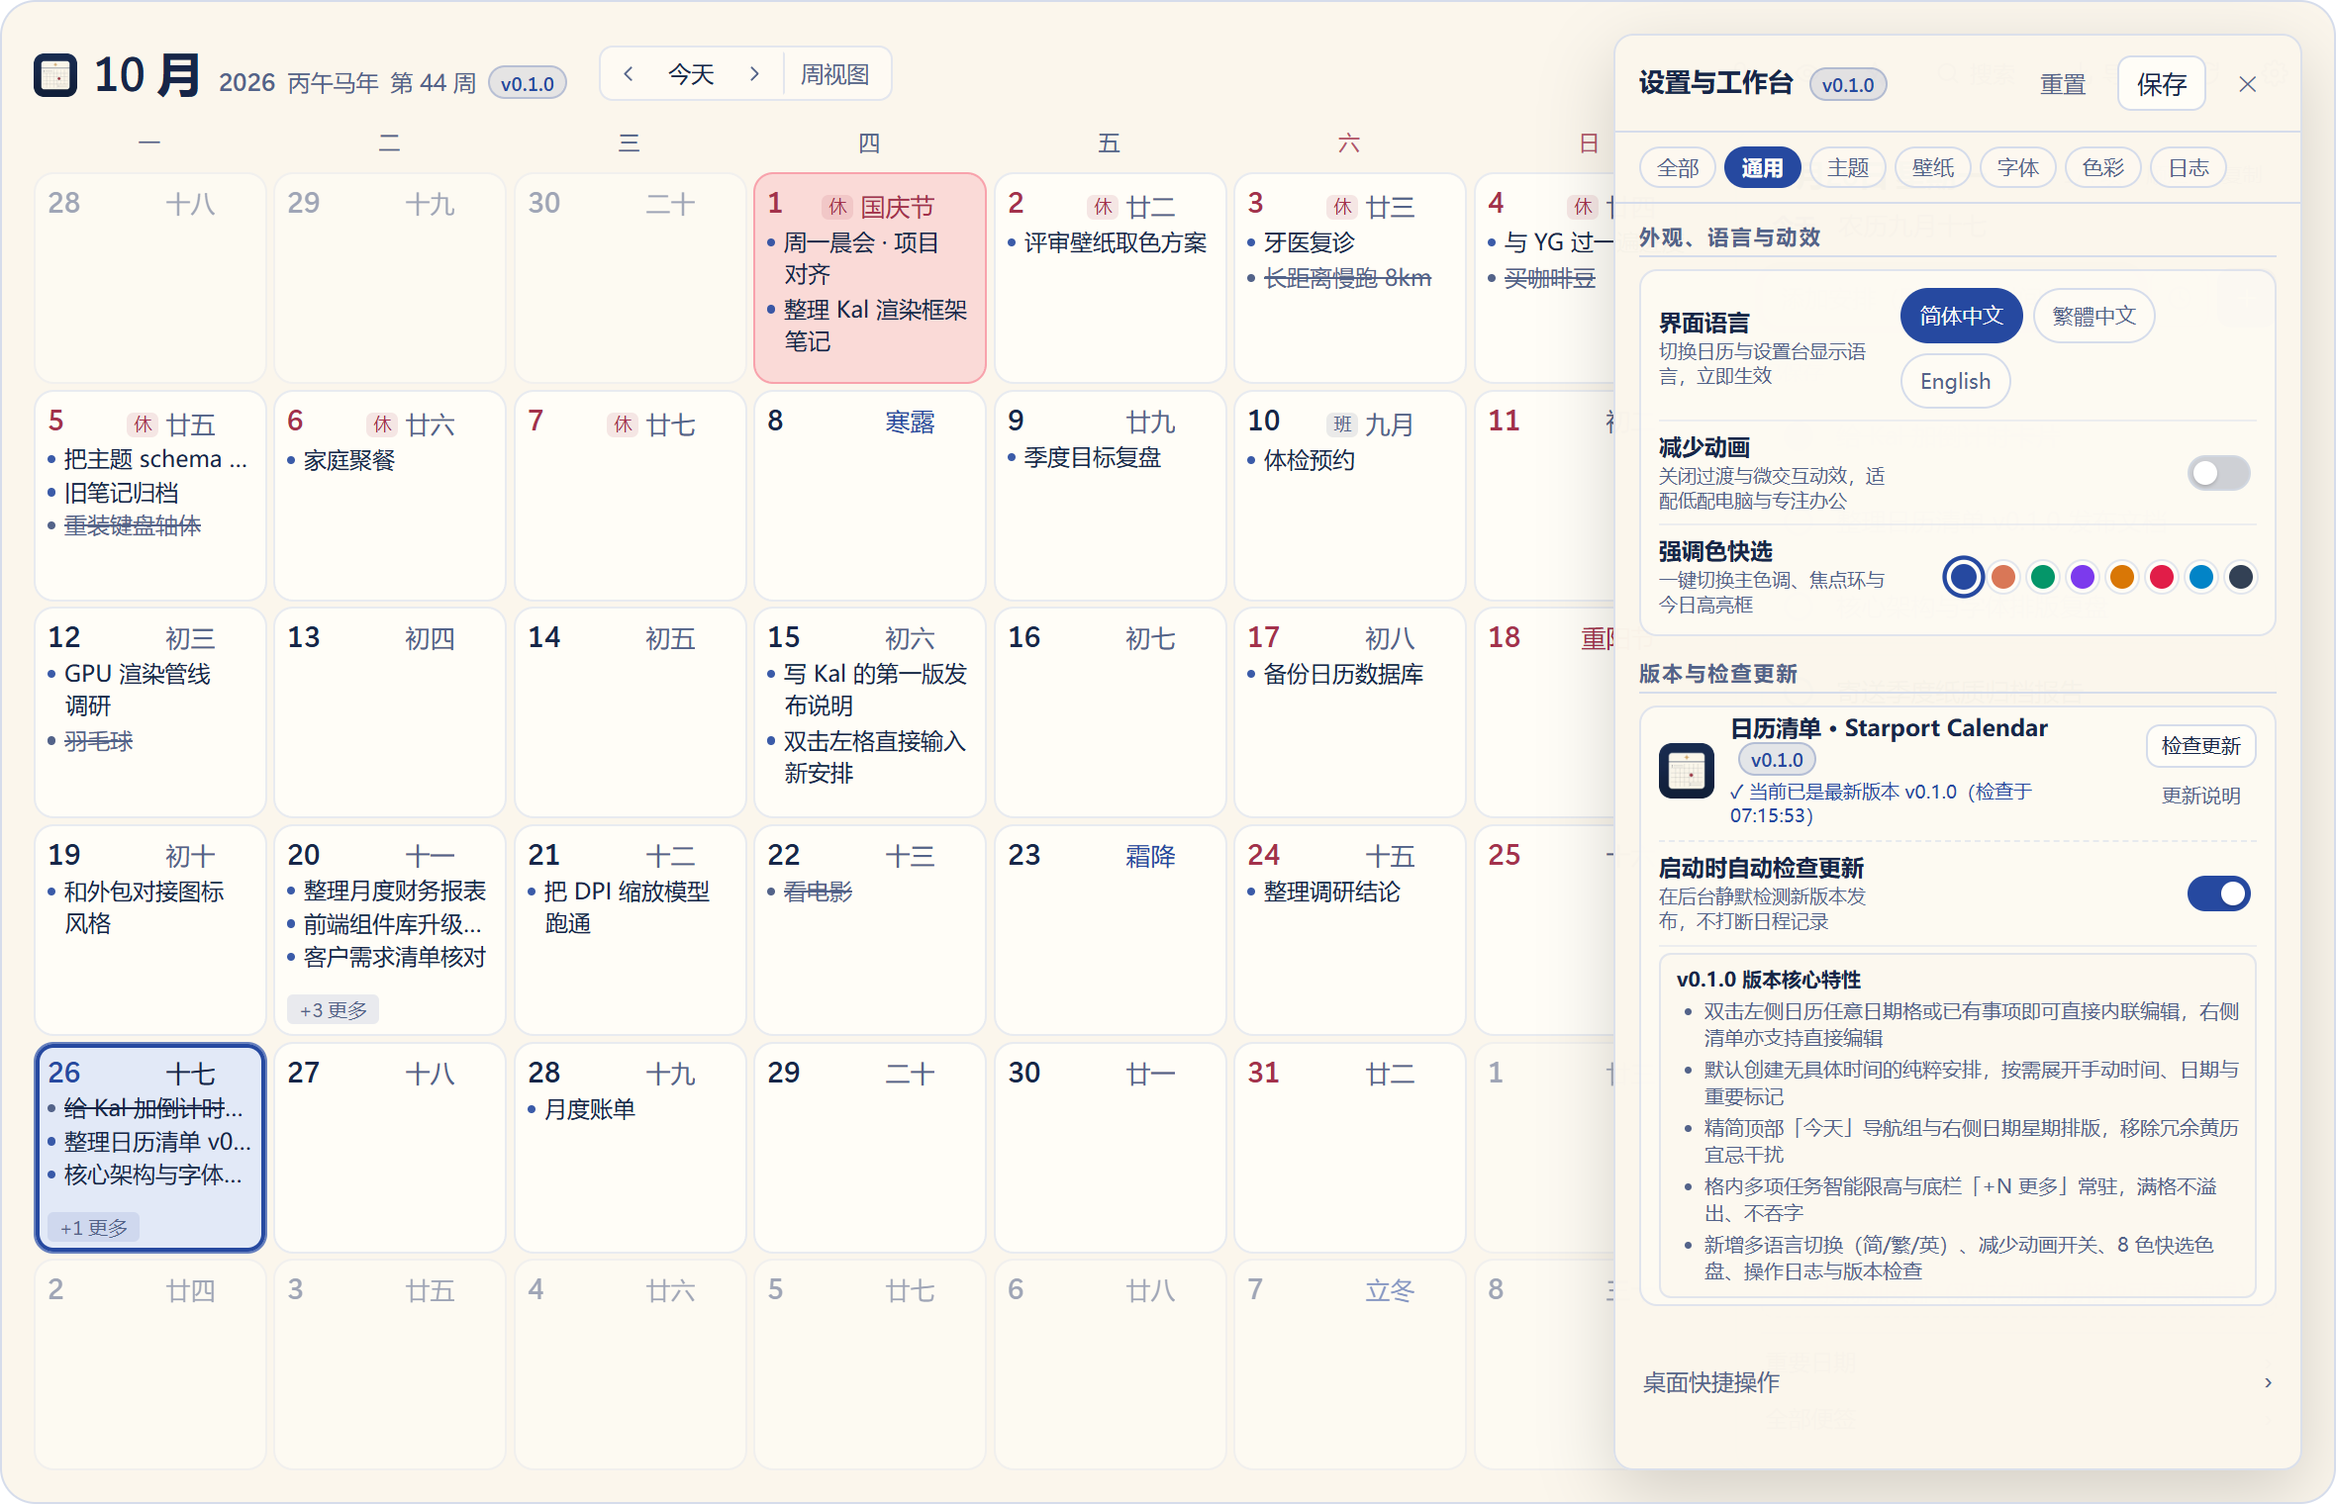
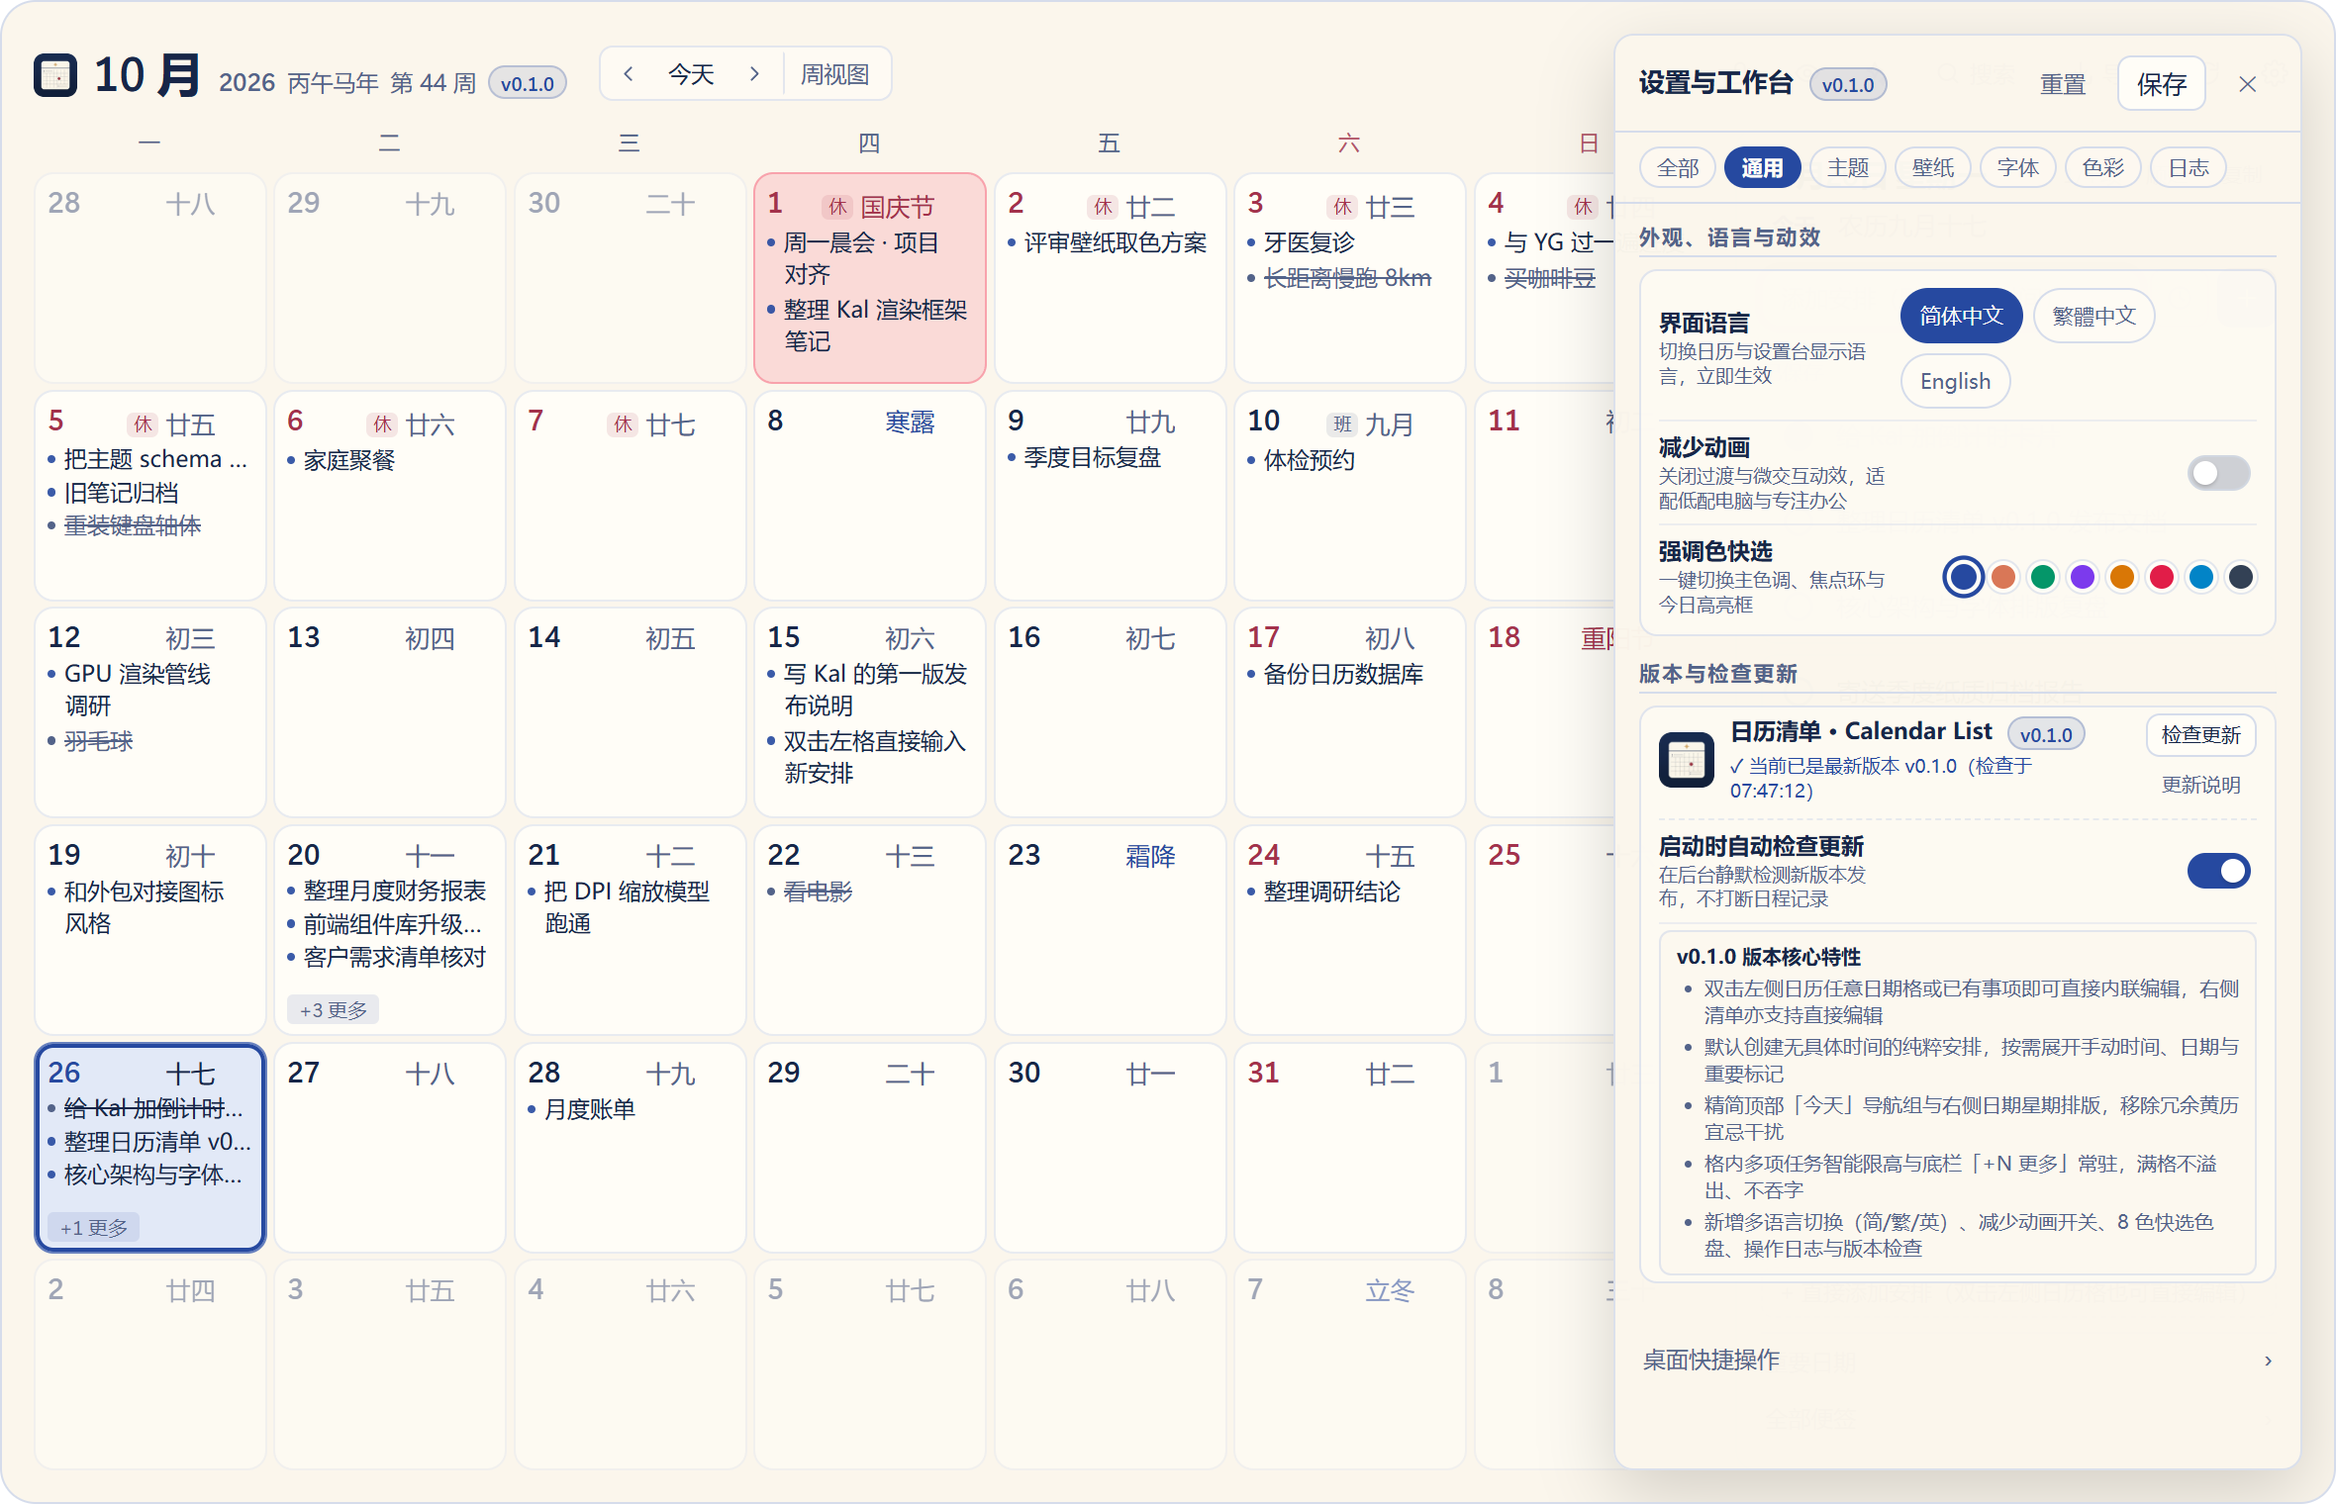
chore: unify project and product English name to Calendar List (日历清单) v0.1.0

Changed region(s): [[0.7114, 0.4638, 0.9589, 0.8658], [0.928, 0.4638, 0.9589, 0.6184], [0.6805, 0.8967, 0.7733, 0.9276]]

diff --git a/ui/src/panel.js b/ui/src/panel.js
@@ -293,10 +293,10 @@ export function createPanel({ mount, getTheme, onPreview, onCommit, onRegen, onR
     <div class="kal-sec-title">版本与检查更新</div>
     <div class="kal-card-group kal-update-card">
       <div class="kal-update-hero">
-        <img class="kal-update-logo" src="./favicon.png" alt="Starport Calendar" width="28" height="28" />
+        <img class="kal-update-logo" src="./favicon.png" alt="Calendar List" width="28" height="28" />
         <div class="kal-update-meta">
-          <div class="kal-update-name">日历清单 · Starport Calendar <span class="kal-update-ver-pill" id="kal-update-ver-pill">${APP_STAGE_LABEL}</span></div>
-          <div class="kal-update-sub" id="kal-update-status">当前阶段版本：${APP_STAGE_LABEL} (Build 2026.10 · 星港素纸版)</div>
+          <div class="kal-update-name">日历清单 · Calendar List <span class="kal-update-ver-pill" id="kal-update-ver-pill">${APP_STAGE_LABEL}</span></div>
+          <div class="kal-update-sub" id="kal-update-status">当前阶段版本：${APP_STAGE_LABEL} (Build 2026.10)</div>
         </div>
         <div class="kal-update-actions">
           <button type="button" class="kal-btn kal-update-btn" id="kal-check-update-btn">检查更新</button>

diff --git a/ui/index.html b/ui/index.html
@@ -3,7 +3,7 @@
 <head>
   <meta charset="utf-8" />
   <meta name="viewport" content="width=device-width,initial-scale=1" />
-  <title>日历清单 · Starport Calendar</title>
+  <title>日历清单 · Calendar List</title>
   <link rel="icon" type="image/png" href="./favicon.png" />
   <link rel="stylesheet" href="./styles/tokens.css" />
   <link rel="stylesheet" href="./styles/layout.css" />
@@ -25,7 +25,7 @@
         <span id="kal-year-label" class="kal-year-label"></span>
         <span id="kal-lunar-year" class="kal-lunar-year"></span>
         <span id="kal-week-badge" class="kal-week-badge" title="当前选中日期所在周次"></span>
-        <span id="kal-app-version" class="kal-version-pill" title="日历清单 · Starport Calendar v0.1.0">v0.1.0</span>
+        <span id="kal-app-version" class="kal-version-pill" title="日历清单 · Calendar List v0.1.0">v0.1.0</span>
       </div>
     </div>
     <nav class="kal-nav">

diff --git a/src-tauri/src/lib.rs b/src-tauri/src/lib.rs
@@ -646,7 +646,7 @@ fn build_tray(app: &tauri::AppHandle) -> tauri::Result<()> {
     let menu = Menu::with_items(app, &[&toggle, &settings, &regen, &sep, &click_through_off, &show_all, &quit])?;
 
     let mut b = TrayIconBuilder::with_id("kal-tray")
-        .tooltip("日历清单 · Starport Calendar")
+        .tooltip("日历清单 · Calendar List")
         .menu(&menu)
         .show_menu_on_left_click(true)
         .on_menu_event(|app, ev| match ev.id().as_ref() {

diff --git a/README.md b/README.md
@@ -1,34 +1,34 @@
 <div align="center">
 
-<img src="docs/screenshots/v0.1.0/logo.png" alt="Starport Calendar Logo" width="108" height="108" />
+<img src="docs/screenshots/v0.1.0/logo.png" alt="Calendar List Logo" width="108" height="108" />
 
-# 日历清单 · Starport Calendar
+# 日历清单 · Calendar List
 
 **轻量、温润、高颜值的 Windows 嵌入式桌面日历与待办清单**  
-*A Lightweight, Customizable Desktop Calendar & Todo Agenda for Windows — Powered by Rust + Tauri v2*
+*A Lightweight, Customizable Desktop Calendar & Todo List for Windows — Powered by Rust + Tauri v2*
 
-[![Release v0.1.0](https://img.shields.io/badge/release-v0.1.0-1e40af?style=flat-square)](https://github.com/yq04/Starport-Calendar/releases/tag/v0.1.0)
-[![Platform](https://img.shields.io/badge/platform-Windows%2010%2F11%20x64-0078d4?style=flat-square)](https://github.com/yq04/Starport-Calendar/releases)
+[![Release v0.1.0](https://img.shields.io/badge/release-v0.1.0-1e40af?style=flat-square)](https://github.com/yq04/Calendar-List/releases/tag/v0.1.0)
+[![Platform](https://img.shields.io/badge/platform-Windows%2010%2F11%20x64-0078d4?style=flat-square)](https://github.com/yq04/Calendar-List/releases)
 [![Tech Stack](https://img.shields.io/badge/stack-Rust%20%2B%20Tauri%20v2-dea584?style=flat-square)](src-tauri/Cargo.toml)
 [![Frontend](https://img.shields.io/badge/frontend-Zero--Bundle%20ESM-10b981?style=flat-square)](ui/src/main.js)
 [![License: MIT](https://img.shields.io/badge/license-MIT-64748b?style=flat-square)](LICENSE)
 
-[**⬇ 下载 Windows x64 安装包 (v0.1.0 · 2.23 MB)**](https://github.com/yq04/Starport-Calendar/releases/download/v0.1.0/StarportCalendar_0.1.0_x64-setup.exe) · [**📋 v0.1.0 发行说明**](docs/RELEASE_NOTES_0.1.0.md) · [**🎨 主题与色板说明**](docs/theme-presets.md) · [**⚡ 性能基线报告**](docs/performance-baseline.md)
+[**⬇ 下载 Windows x64 安装包 (v0.1.0 · 2.23 MB)**](https://github.com/yq04/Calendar-List/releases/download/v0.1.0/CalendarList_0.1.0_x64-setup.exe) · [**📋 v0.1.0 发行说明**](docs/RELEASE_NOTES_0.1.0.md) · [**🎨 主题与色板说明**](docs/theme-presets.md) · [**⚡ 性能基线报告**](docs/performance-baseline.md)
 
 </div>
 
 ---
 
-## ✨ 为什么选择「日历清单 · Starport Calendar」？
+## ✨ 为什么选择「日历清单 · Calendar List」？
 
 传统桌面日历（如 DesktopCal）拥有实用的月历格子记事模型，但其早期的 GDI 自绘渲染层难以兼顾现代高分屏字体排版、色彩可读性与轻快交互；而重型全功能日历客户端又往往充斥着繁琐的表单、精确到分钟的强制时间段和沉重的后台开销。
 
-**日历清单 · Starport Calendar** 用 **Rust + Tauri v2 + 零打包器原生 ES Module** 重新打造了一款回归纯粹的桌面日历清单：
+**日历清单 · Calendar List** 用 **Rust + Tauri v2 + 零打包器原生 ES Module** 重新打造了一款回归纯粹的桌面日历清单：
 
 - 🪶 **极致轻量，低配友好**：安装包仅 **2.23 MB**，无 Node.js 运行时与前端框架臃肿包体；内置「减少动画」与「温润实底」模式，核显与老旧办公本也能丝滑常驻桌面。
 - ✍ **左右双侧直接编辑，默认不设时间负担**：既能在**左侧 42 格日历任意格子双击直接打字**，也能在**右侧每日清单原位新建或双击修改**；日常安排默认不要求填写具体时刻，需要时再一键展开手动时间。
 - 📐 **满格不溢出、不吞字**：智能识别单格事项密度，满格自动启用紧凑单行截断并将 **`+N 更多`** 独立固定于格子底栏，点击即可弹出当日完整清单。
-- 🎨 **星港素纸美学 + OKLab 壁纸取色引擎**：内置 **星港素纸、深海夜航、摩卡紫蓝、极地霜夜、松影晨纸** 5 套主题与 8 色快选圆点，支持按桌面壁纸自动生成符合 WCAG AA/AAA 对比度的专属配色。
+- 🎨 **护眼素纸美学 + OKLab 壁纸取色引擎**：内置 **星港素纸、深海夜航、摩卡紫蓝、极地霜夜、松影晨纸** 5 套主题与 8 色快选圆点，支持按桌面壁纸自动生成符合 WCAG AA/AAA 对比度的专属配色。
 - 🗓 **本土化日历细节拉满**：内置 1900–2100 农历、二十四节气、法定节假日「休/班」角标、周视图 7 列专注看板、跨日拖拽改期、未完事项一键顺延，以及 **A4 横向满幅 PDF / Markdown / iCalendar (`.ics`)** 导入导出。
 
 ---
@@ -37,13 +37,13 @@
 
 > 以下截图均来自 `v0.1.0` 实际前端与隔离演示数据，不包含任何个人隐私数据。
 
-### 1. 主界面总览（星港素纸主题 · 清晰日期星期 · 满格 `+N 更多` 常驻）
+### 1. 主界面总览（护眼暖白主题 · 清晰日期星期 · 满格 `+N 更多` 常驻）
 顶部紧凑 `[ ‹ 今天 › | 周视图 ]` 导航胶囊，左侧 42 格等高矩阵清晰呈现公历、农历、节气与法定休/班角标；右侧聚焦当日 **日期 + 星期** 与待办清单，彻底告别杂乱黄历干扰。
 
-![主界面总览：星港素纸主题、满格 +3 更多常驻与右侧清爽日程栏](docs/screenshots/v0.1.0/01-main-overview.png)
+![主界面总览：满格 +3 更多常驻与右侧清爽日程栏](docs/screenshots/v0.1.0/01-main-overview.png)
 
 ### 2. 左右双侧直接编辑（左侧日历格双击直编 + 右侧列表原位直编）
-无论是習慣在**左侧日历格子上直接双击记录**（或点击格子右上角悬停 `+` 号），还是习惯在**右侧面板顶部/底部直接输入**，都能一键回车即存；双击任意已有事项即可原位修改文字。
+无论是习惯在**左侧日历格子上直接双击记录**（或点击格子右上角悬停 `+` 号），还是习惯在**右侧面板顶部/底部直接输入**，都能一键回车即存；双击任意已有事项即可原位修改文字。
 
 | 左侧日历格双击原位输入 | 右侧清单底部 `+ 直接添加安排` 原位编辑 |
 | :---: | :---: |
@@ -86,12 +86,16 @@
 
 ## 📦 下载与安装
 
-前往 [**GitHub Releases (`v0.1.0`)**](https://github.com/yq04/Starport-Calendar/releases/tag/v0.1.0) 下载最新 Windows x64 安装包：
+前往 [**GitHub Releases (`v0.1.0`)**](https://github.com/yq04/Calendar-List/releases/tag/v0.1.0) 下载最新 Windows x64 安装包：
 
-- **安装包文件**：[`StarportCalendar_0.1.0_x64-setup.exe`](https://github.com/yq04/Starport-Calendar/releases/download/v0.1.0/StarportCalendar_0.1.0_x64-setup.exe)
-- **安装包大小**：`2,341,144` 字节（约 `2.23 MB`）
[1 lines of base64/hex data omitted]
+- **安装包文件**：[`CalendarList_0.1.0_x64-setup.exe`](https://github.com/yq04/Calendar-List/releases/download/v0.1.0/CalendarList_0.1.0_x64-setup.exe)
+- **安装包大小**：`2,342,572` 字节（约 `2.23 MB`）
[1 lines of base64/hex data omitted]
 - **系统要求**：Windows 10 / Windows 11 (x64)，内置 WebView2 Runtime（Windows 11 及现代 Windows 10 已默认自带）。
+- **自定义安装路径**：双击向导可直接安装，或通过命令行指定目录（例如安装至 `D:\1_app\CalendarList`）：
+  ```powershell
+  Start-Process -FilePath .\CalendarList_0.1.0_x64-setup.exe -ArgumentList "/S /D=D:\1_app\CalendarList" -Wait
+  ```
 
 ---
 
@@ -106,7 +110,7 @@
 | **色彩科学** | `image` + 自研 OKLab k-means | 在感知均匀的 OKLab 空间聚类取色，二分求解满足 WCAG AA/AAA 对比度的文字色彩 |
 
 ```text
-Starport-Calendar/
+Calendar-List/
 ├── src-tauri/                 # Rust + Tauri v2 原生后端
 │   ├── src/
 │   │   ├── color.rs           # sRGB <-> OKLab 转换、WCAG 对比度计算与二分校正
@@ -145,13 +149,13 @@ Starport-Calendar/
 
 ```powershell
 # 克隆仓库
-git clone https://github.com/yq04/Starport-Calendar.git
-cd Starport-Calendar
+git clone https://github.com/yq04/Calendar-List.git
+cd Calendar-List
 
 # 开发模式启动
 cargo run --manifest-path src-tauri/Cargo.toml
 
-# 构建 Windows x64 NSIS 安装程序 (StarportCalendar_0.1.0_x64-setup.exe)
+# 构建 Windows x64 NSIS 安装程序 (CalendarList_0.1.0_x64-setup.exe)
 cd src-tauri
 cargo tauri build --bundles nsis
 ```

diff --git a/docs/RELEASE_NOTES_0.1.0.md b/docs/RELEASE_NOTES_0.1.0.md
@@ -1,4 +1,4 @@
-# 日历清单 · Starport Calendar `v0.1.0` 发行说明
+# 日历清单 · Calendar List `v0.1.0` 发行说明
 
 **发布日期**：2026-10-26  
 **版本标签**：`v0.1.0`（首次公开正式候选版）  
@@ -18,7 +18,7 @@
    - 点击 `+N 更多` 即可弹出该日全量事项悬浮卡片，同时右侧面板完整展示当日全部安排。
 
 3. **极简温润排版与低配电脑友好设计**
-   - 默认搭载 **星港素纸（Starport Paper）** 护眼暖白主题，移除冗余黄历「宜/忌」与繁杂胶囊标签，清晰突出 **日期 + 星期** 与 **农历 / 二十四节气 / 法定休班角标**。
+   - 默认搭载 **星港素纸** 护眼暖白主题，移除冗余黄历「宜/忌」与繁杂胶囊标签，清晰突出 **日期 + 星期** 与 **农历 / 二十四节气 / 法定休班角标**。
    - 顶部 `[ ‹ 今天 › | 周视图 ]` 采用紧凑无框胶囊设计，左右两侧卡片边框、圆角、字重与行高全面统一。
    - 内置 **减少动画（Reduced Motion）** 开关与 **温润实底** 零模糊模式，兼顾轻薄本、核显与老旧办公电脑的丝滑流畅体验。
 
@@ -41,7 +41,7 @@
 
 | 文件名 | 类型 | 大小 | SHA-256 |
 |---|---|---|---|
[2 lines of base64/hex data omitted]
 
 ---
 
